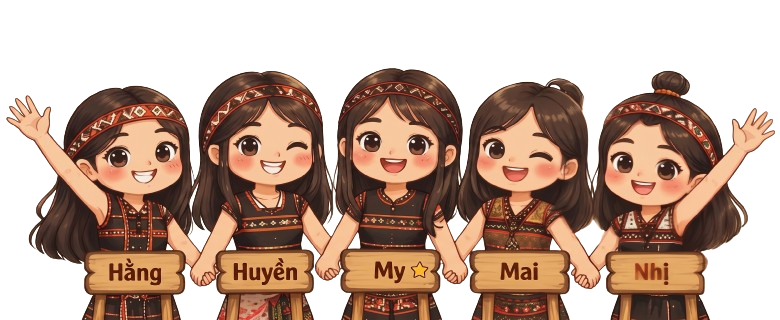
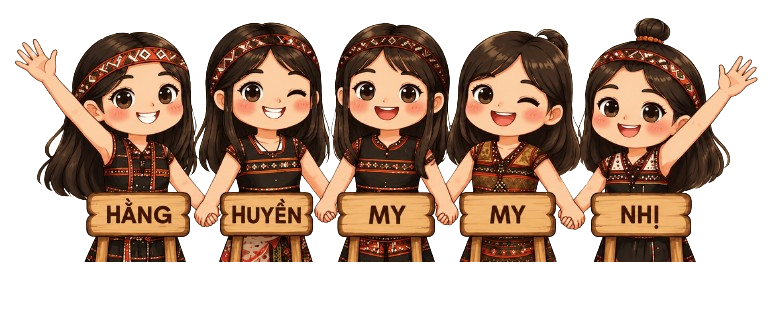
feat: add Book page component with supporting assets

diff --git a/src/presentation/pages/Book/Book.jsx b/src/presentation/pages/Book/Book.jsx
@@ -20,7 +20,11 @@ import imgso18 from "../../../../public/assets/so18.png"
 import imgso19 from "../../../../public/assets/so19.png"
 import imgso20 from "../../../../public/assets/so20.png"
 import iumgTeam from "../../../../public/assets/imgteam.png"
-
+import backpage1 from "../../../../public/assets/backpage1.png"
+import pagechuyentrang from "../../../../public/assets/pagechuyentrang.png"
+import pagechuyentrangmb from "../../../../public/assets/pagechuyentrangmb.png"
+import pagechuyentrangmb2 from "../../../../public/assets/pagechuyentrangmb2.png"
+import pagechuyentrang2 from "../../../../public/assets/pagechuyentrang2.png"
 // ─── DESIGN TOKENS — EARTH TONE TƯƠI SÁNG ────────────────────────────────────
 const C = {
   // Nền chính — kem nền sách cổ ấm áp
@@ -73,7 +77,52 @@ const C = {
   // Shadow
   shadow:      "rgba(44,26,10,0.85)",
 };
-
+function PageTransition1() {
+  const isMobile = useIsMobile();
+  return (
+    <div style={{
+      width: "100%",
+      height: "100%",
+      position: "relative",
+      overflow: "hidden",
+    }}>
+      <img
+        src={isMobile ? pagechuyentrangmb : pagechuyentrang}
+        alt="Chuyển trang"
+        style={{
+          width: "100%",
+          height: "100%",
+          objectFit: "cover",
+          objectPosition: "center",
+          display: "block",
+        }}
+      />
+    </div>
+  );
+}
+function PageTransition2() {
+  const isMobile = useIsMobile();
+  return (
+    <div style={{
+      width: "100%",
+      height: "100%",
+      position: "relative",
+      overflow: "hidden",
+    }}>
+      <img
+        src={isMobile ? pagechuyentrangmb2 : pagechuyentrang2}
+        alt="Chuyển trang"
+        style={{
+          width: "100%",
+          height: "100%",
+          objectFit: "cover",
+          objectPosition: "center",
+          display: "block",
+        }}
+      />
+    </div>
+  );
+}
 // ─── RESPONSIVE HOOKS ─────────────────────────────────────────────────────────
 function useIsMobile() {
   const [isMobile, setIsMobile] = useState(
@@ -450,8 +499,19 @@ function Page1Cover({ lang }) {
   if (isMobile) {
     return (
       <PageShell bgVariant="a">
+        <div style={{
+          position: "absolute",
+          inset: 0,
+          backgroundImage: `url(${backpage1})`,
+          backgroundSize: "cover",
+          backgroundPosition: "center",
+          backgroundRepeat: "no-repeat",
+          opacity: 0.52,
+          zIndex: 0,
+          pointerEvents: "none",
+        }} />
         <PageContent isMobile={true}>
-          <div style={{ fontSize: 9, letterSpacing: "2px", textTransform: "uppercase", color: C.inkSoft, fontFamily: "'Be Vietnam Pro',sans-serif", lineHeight: 2, textAlign: "center", marginBottom: 4 }}>
+          <div style={{ fontSize: 9, letterSpacing: "2px", textTransform: "uppercase", color: "#000", fontFamily: "'Be Vietnam Pro',sans-serif", lineHeight: 2, textAlign: "center", marginBottom: 4 }}>
             Trường Đại Học Sư Phạm – Đại Học Đà Nẵng<br />Khoa Sử – Địa – Chính Trị
           </div>
           <SectionDivider />
@@ -483,13 +543,13 @@ function Page1Cover({ lang }) {
           </div>
           <SectionDivider />
           <div style={{ background: `linear-gradient(135deg, rgba(200,132,60,0.12), rgba(124,139,58,0.10))`, borderLeft: `3px solid ${C.gold}cc`, borderRight: `3px solid ${C.gold}cc`, padding: "14px 14px", marginTop: 12, marginBottom: 12, position: "relative" }}>
-            <div style={{ position: "absolute", top: 4, left: 10, fontSize: 44, fontFamily: "'Playfair Display',serif", color: `${C.gold}33`, lineHeight: 0.7 }}>"</div>
-            <p style={{ fontStyle: "italic", fontSize: 12, color: C.inkMid, lineHeight: 1.9, textAlign: "center", margin: 0, position: "relative", zIndex: 1, fontFamily: "'Lora',serif" }}>
+            <div style={{ position: "absolute", top: 4, left: 10, fontSize: 44, fontFamily: "'Playfair Display',serif", color: "#000", lineHeight: 0.7 }}>"</div>
+            <p style={{ fontStyle: "italic", fontSize: 12, color: "#000", lineHeight: 1.9, textAlign: "center", margin: 0, position: "relative", zIndex: 1, fontFamily: "'Lora',serif" }}>
               {lang === "vi" ? "Giữa đại ngàn Trường Sơn, văn hóa Cơ Tu không chỉ là ký ức của núi rừng — mà là nhịp thở sống động của một dân tộc giữ hồn qua từng thế hệ." : "Amid the Trường Sơn highlands, Cơ Tu culture is not merely a memory of forests — it is the living breath of a people preserving their soul across generations."}
             </p>
           </div>
           <CoTuBorder color={C.gold} />
-          <div style={{ fontSize: 9, letterSpacing: "3px", color: C.inkSoft, fontFamily: "'Be Vietnam Pro',sans-serif", textAlign: "center", marginTop: 10 }}>✦ &nbsp;Đà Nẵng, 2026&nbsp; ✦</div>
+          <div style={{ fontSize: 9, letterSpacing: "3px", color: "#000", fontFamily: "'Be Vietnam Pro',sans-serif", textAlign: "center", marginTop: 10 }}>✦ &nbsp;Đà Nẵng, 2026&nbsp; ✦</div>
         </PageContent>
       </PageShell>
     );
@@ -497,6 +557,17 @@ function Page1Cover({ lang }) {
 
   return (
     <PageShell bgVariant="a">
+      <div style={{
+          position: "absolute",
+          inset: 0,
+          backgroundImage: `url(${backpage1})`,
+          backgroundSize: "cover",
+          backgroundPosition: "center",
+          backgroundRepeat: "no-repeat",
+          opacity: 0.92,
+          zIndex: 0,
+          pointerEvents: "none",
+        }} />
       <div style={{ position: "absolute", top: 36, bottom: 36, left: 40, right: 40, display: "flex", flexDirection: "row", alignItems: "stretch" }}>
         <div style={{ width: "52%", flexShrink: 0, display: "flex", flexDirection: "column", justifyContent: "center", paddingRight: 32 }}>
           <div style={{ fontSize: "clamp(7px,0.8vw,8.5px)", letterSpacing: "4px", textTransform: "uppercase", color: C.inkSoft, marginBottom: 8, fontFamily: "'Be Vietnam Pro',sans-serif", lineHeight: 2 }}>
@@ -551,11 +622,6 @@ function Page2Intro({ lang }) {
     ? "Văn hóa của người Cơ Tu tại Đà Nẵng là một bộ phận đặc sắc trong bức tranh văn hóa miền Trung, được hình thành và phát triển trên nền tảng gắn bó lâu đời với không gian núi rừng Trường Sơn, thể hiện qua nhiều yếu tố độc đáo như kiến trúc nhà cộng đồng, trang phục truyền thống, lễ hội và các phong tục tập quán; được thực hiện trong khuôn khổ đề tài \"Xây dựng nguồn tài nguyên số cho văn hóa người Cơ Tu tại thành phố Đà Nẵng,\" cuốn sổ tay này không hướng đến việc trình bày toàn diện mà tập trung lựa chọn giới thiệu một số di tích và giá trị văn hóa tiêu biểu, mang tính đại diện mà nhóm nghiên cứu đã khảo sát và tổng hợp, với cách trình bày ngắn gọn, rõ ràng và gần gũi, phù hợp với nhiều đối tượng bạn đọc, qua đó góp phần lan tỏa nhận thức, nuôi dưỡng niềm tự hào và thúc đẩy việc bảo tồn, phát huy các giá trị văn hóa truyền thống trong bối cảnh hiện đại."
     : "The culture of the Cơ Tu people in Da Nang is a distinctive part of Central Vietnam's cultural landscape, formed and developed through a long-standing connection with the Trường Sơn mountainous region. It is expressed through unique elements such as communal architecture, traditional costumes, festivals, and customs. Conducted within the framework of the project \"Building Digital Resources for Cơ Tu Culture in Da Nang City,\" this handbook does not aim to be comprehensive but instead focuses on presenting selected representative cultural sites and values surveyed and compiled by the research team.";
 
-  const highlights = [
-    { label: lang === "vi" ? "Kiến trúc cộng đồng" : "Community Architecture", desc: lang === "vi" ? "Nhà Gươl – linh hồn của làng Cơ Tu" : "The Gươl house — soul of the Cơ Tu village", color: C.leaf },
-    { label: lang === "vi" ? "Trang phục & Dệt thổ cẩm" : "Costume & Weaving", desc: lang === "vi" ? "Hoa văn đặc trưng, kỹ thuật truyền đời" : "Distinctive patterns, time-honored craft", color: C.gold },
-    { label: lang === "vi" ? "Lễ hội & Phong tục" : "Festivals & Customs", desc: lang === "vi" ? "Bảo tồn bản sắc qua từng nghi lễ" : "Preserving identity through ritual", color: C.clay },
-  ];
 
   if (isMobile) {
     return (
@@ -565,20 +631,7 @@ function Page2Intro({ lang }) {
           <div style={{ fontSize: 30, fontWeight: 700, color: C.ink, lineHeight: 1.05, fontFamily: "'Playfair Display',serif" }}>{lang === "vi" ? "Giới Thiệu" : "Introduction"}</div>
           <div style={{ fontSize: 12, fontStyle: "italic", color: C.clay, letterSpacing: "2px", marginBottom: 8, marginTop: 4, fontFamily: "'Lora',serif" }}>{lang === "vi" ? "Introduction" : "Giới Thiệu"}</div>
           <SectionDivider />
-          <div style={{ display: "flex", flexDirection: "column", gap: 8, marginTop: 10 }}>
-            {highlights.map((h, i) => (
-              <div key={i} style={{ display: "flex", alignItems: "center", gap: 10, background: `linear-gradient(135deg, rgba(255,248,235,0.9), ${h.color}20)`, borderLeft: `3px solid ${h.color}cc`, padding: "10px 12px" }}>
-                <CoTuDiamond size={10} color={h.color} />
-                <div>
-                  <div style={{ fontSize: 13, fontWeight: 600, color: C.ink, fontFamily: "'Be Vietnam Pro',sans-serif" }}>{h.label}</div>
-                  <div style={{ fontSize: 11, color: C.inkSoft, marginTop: 2, fontStyle: "italic", fontFamily: "'Lora',serif" }}>{h.desc}</div>
-                </div>
-              </div>
-            ))}
-          </div>
-          <HDivider margin="12px 0" />
           <div style={{ display: "flex", alignItems: "center", gap: 8, marginBottom: 10 }}>
-            <DiamondRow gap={6} />
             <div style={{ fontSize: 10, letterSpacing: "2.5px", textTransform: "uppercase", color: C.forestMid, fontFamily: "'Be Vietnam Pro',sans-serif" }}>{lang === "vi" ? "Về Cuốn Sổ Tay" : "About This Book"}</div>
           </div>
           <div style={{ background: `linear-gradient(135deg, rgba(255,248,235,0.95), rgba(200,132,60,0.08))`, borderTop: `2px solid ${C.gold}aa`, borderBottom: `1px solid ${C.gold}55`, padding: "14px 14px", position: "relative" }}>
@@ -602,17 +655,6 @@ function Page2Intro({ lang }) {
           <div style={{ fontSize: "clamp(28px,3.5vw,42px)", fontWeight: 700, color: C.ink, lineHeight: 1.05, fontFamily: "'Playfair Display',serif" }}>{lang === "vi" ? "Giới Thiệu" : "Introduction"}</div>
           <div style={{ fontSize: 11, fontStyle: "italic", color: C.clay, letterSpacing: "2px", marginBottom: 14, marginTop: 4, fontFamily: "'Lora',serif" }}>{lang === "vi" ? "Introduction" : "Giới Thiệu"}</div>
           <SectionDivider />
-          <div style={{ marginTop: 16, display: "flex", flexDirection: "column", gap: 10 }}>
-            {highlights.map((h, i) => (
-              <div key={i} style={{ display: "flex", alignItems: "center", gap: 12, background: `linear-gradient(135deg, rgba(255,248,235,0.9), ${h.color}20)`, borderLeft: `3px solid ${h.color}cc`, padding: "8px 14px" }}>
-                <CoTuDiamond size={10} color={h.color} />
-                <div>
-                  <div style={{ fontSize: 9.5, fontWeight: 600, color: C.ink, fontFamily: "'Be Vietnam Pro',sans-serif" }}>{h.label}</div>
-                  <div style={{ fontSize: 9, color: C.inkSoft, marginTop: 2, fontStyle: "italic", fontFamily: "'Lora',serif" }}>{h.desc}</div>
-                </div>
-              </div>
-            ))}
-          </div>
           <div style={{ marginTop: 16 }}><CoTuBorder /></div>
         </div>
         <VDivider />
@@ -1821,6 +1863,7 @@ const PAGES = [
   { id: 1,  label: { vi: "Trang Bìa", en: "Cover" }, component: Page1Cover },
   { id: 2,  label: { vi: "Giới Thiệu", en: "Introduction" }, component: Page2Intro },
   { id: 3,  label: { vi: "Mục Lục", en: "Contents" }, component: Page3Toc },
+  { id: "3b", label: { vi: "Di Sản Vật Thể", en: "Tangible Heritage" }, component: PageTransition1 },
   { id: 4,  label: { vi: "Làng Truyền Thống", en: "Traditional Village" }, component: Page4Lang },
   { id: 5,  label: { vi: "Nhà Gươl", en: "Gươl House" }, component: Page5NhaGuol },
   { id: 6,  label: { vi: "Nhà Sàn", en: "Stilt House" }, component: Page6NhaSan },
@@ -1840,6 +1883,7 @@ const PAGES = [
   { id: 20, label: { vi: "Gậy Chọc Lỗ", en: "Dibble Stick" }, component: Page20GayChocLo },
   { id: 21, label: { vi: "Chày Giã Gạo", en: "Rice Pestle" }, component: Page21ChayGiaGao },
   { id: 22, label: { vi: "Công Cụ Săn Bắt", en: "Hunting Tools" }, component: Page22CongCuSan },
+  { id: "22b", label: { vi: "Di Sản Phi Vật Thể", en: "Intangible Cultural Heritage" }, component: PageTransition2 },
   { id: 23, label: { vi: "Lễ Mừng Lúa Mới", en: "New Rice Festival" }, component: Page23LeMungLuaMoi },
   { id: 24, label: { vi: "Lễ Dựng Nhà Gươl", en: "Gươl Ceremony" }, component: Page24LeDungNhaGuol },
   { id: 25, label: { vi: "Lễ Kết Nghĩa", en: "Bond Ceremony" }, component: Page25LeKetNghia },
